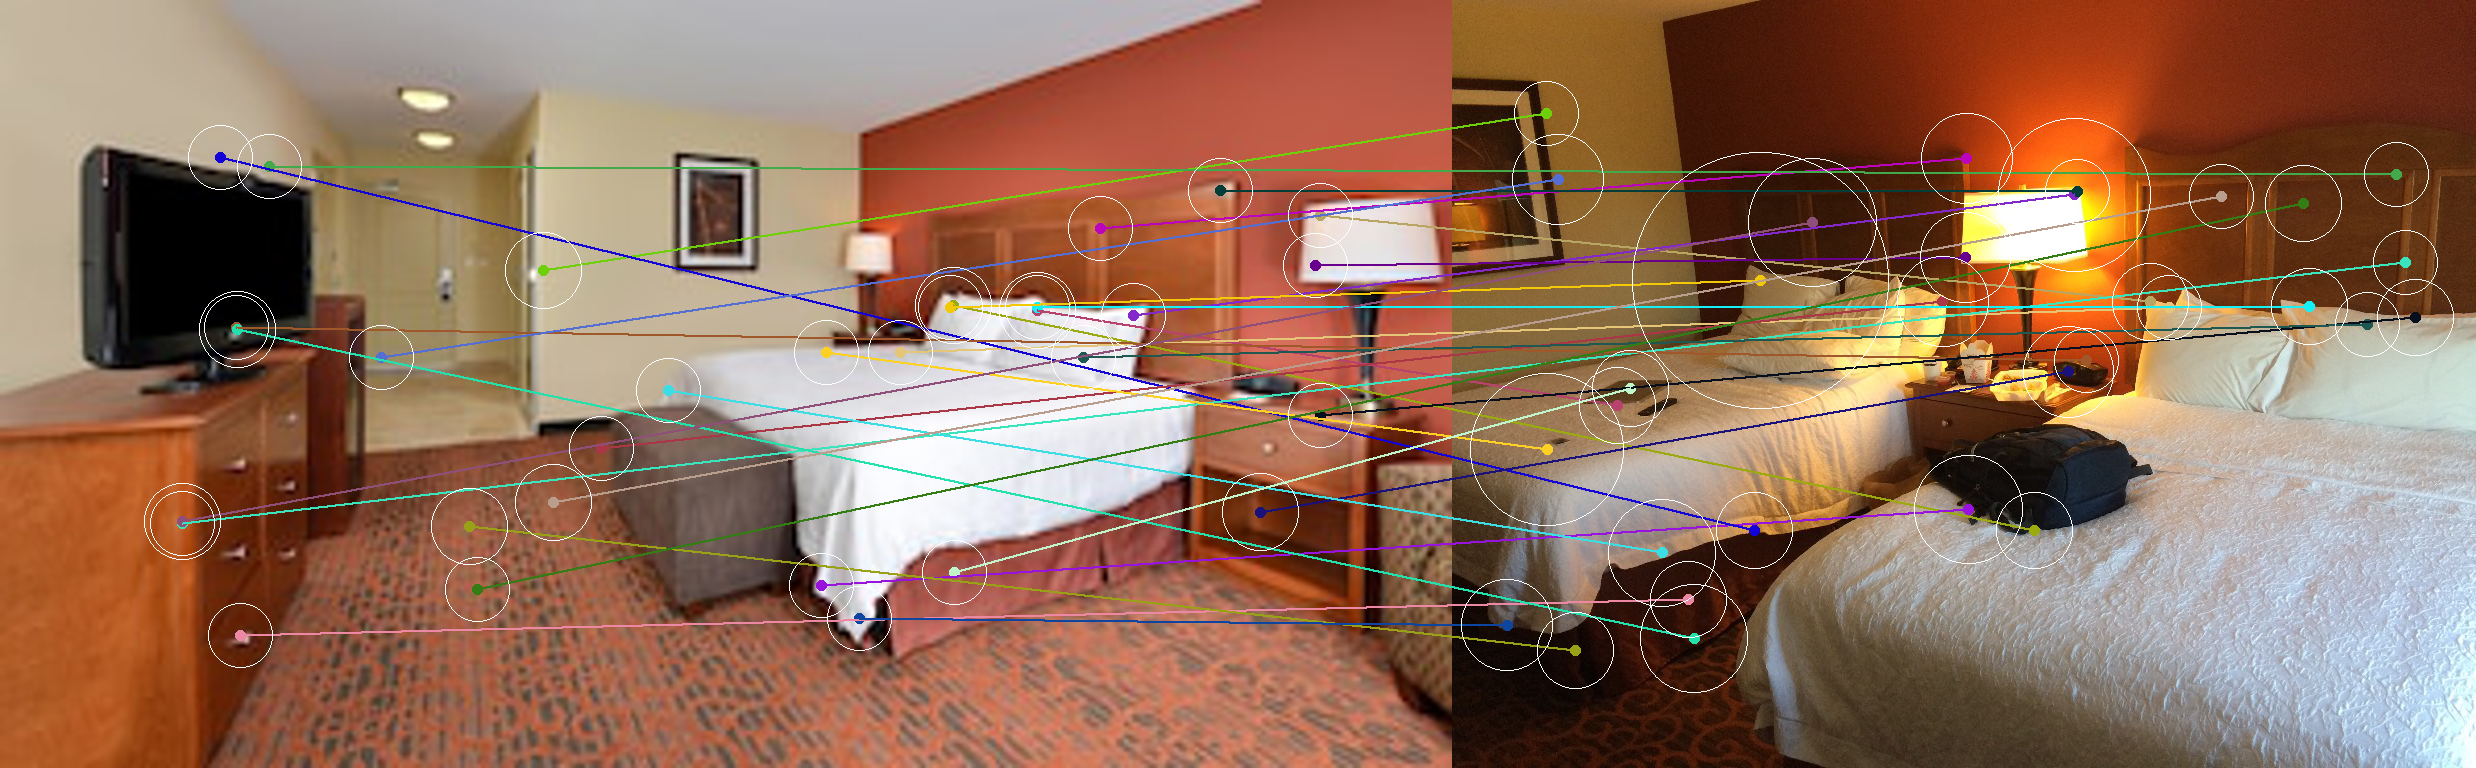
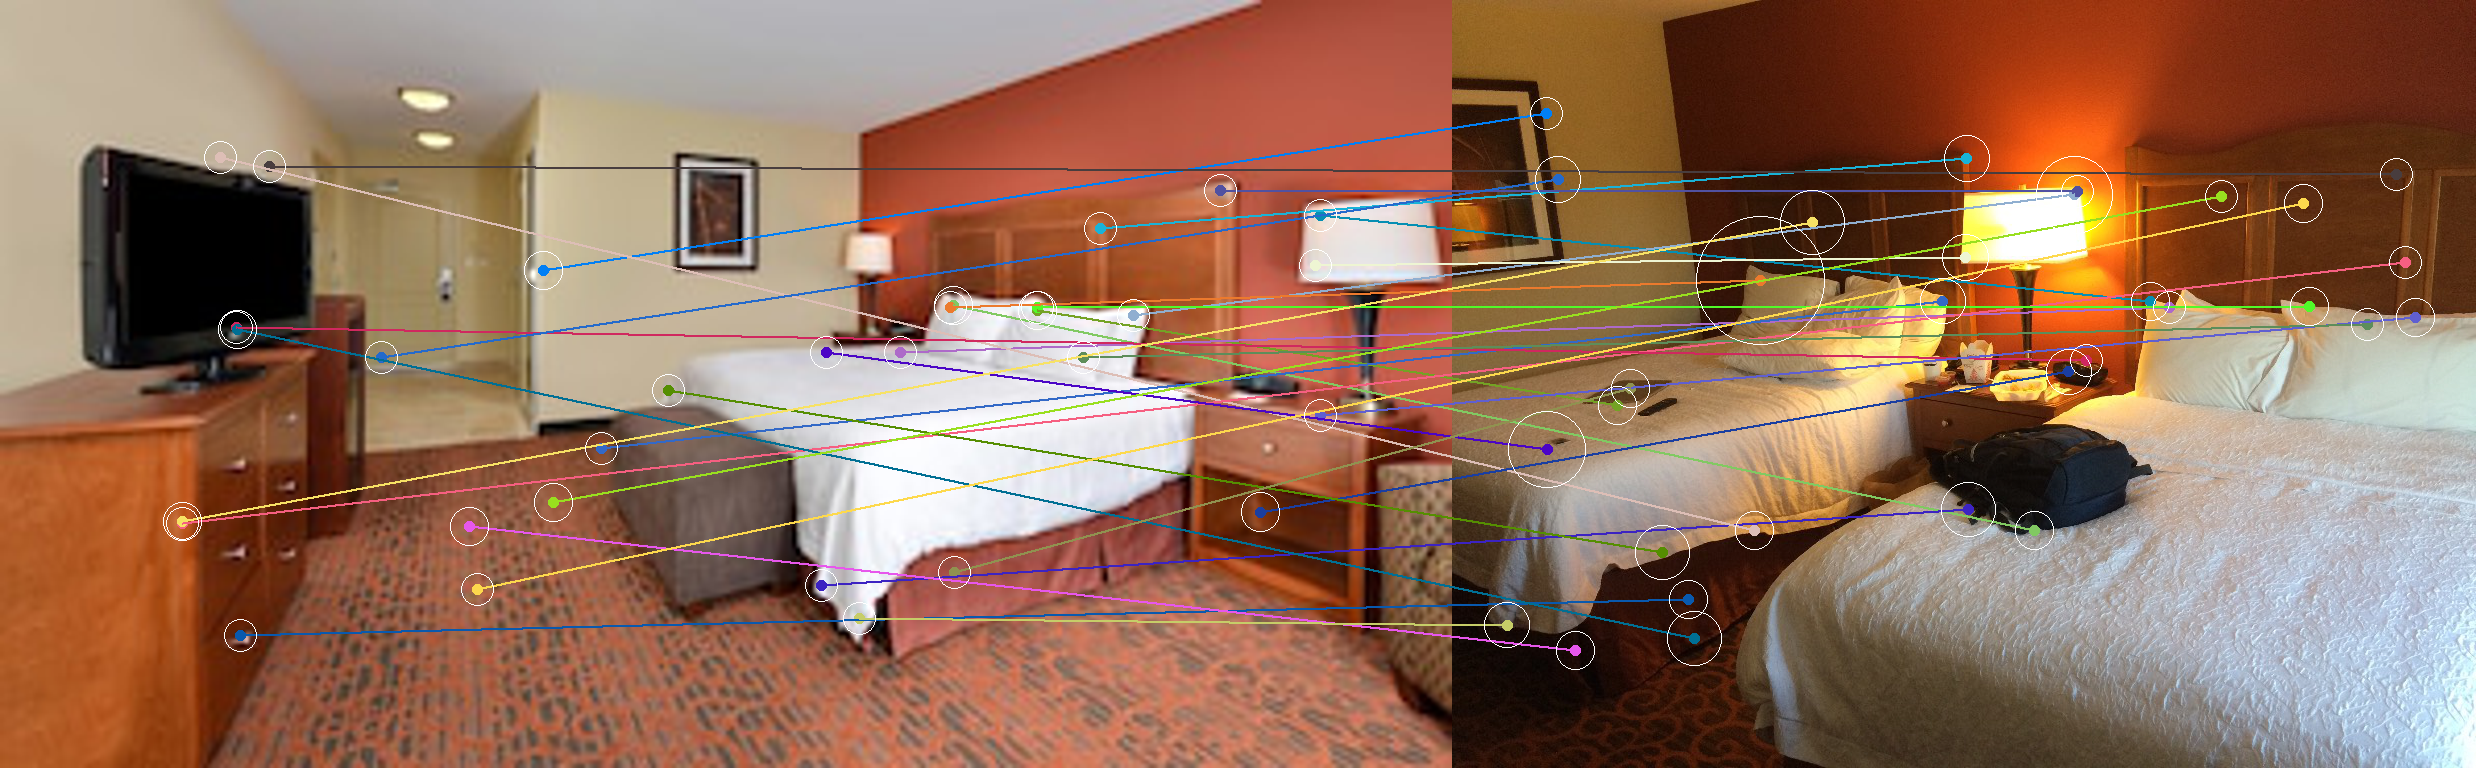
Fix third coordinate for circles (diamter, not radius)

diff --git a/visualization.py b/visualization.py
@@ -85,7 +85,7 @@ def draw_circles(image, n_smallest, colors):
         color = colors[i]
 
         point1, point2 = s[1][:2], s[2][:2]
-        r1, r2 = s[1][2], s[2][2]
+        r1, r2 = s[1][2]/2, s[2][2]/2
         circle1 = (point1[0]-r1, point1[1]-r1 ,point1[0]+r1, point1[1]+r1)
         circle2 = (point2[0]-r2, point2[1]-r2, point2[0]+r2, point2[1]+r2)
 
